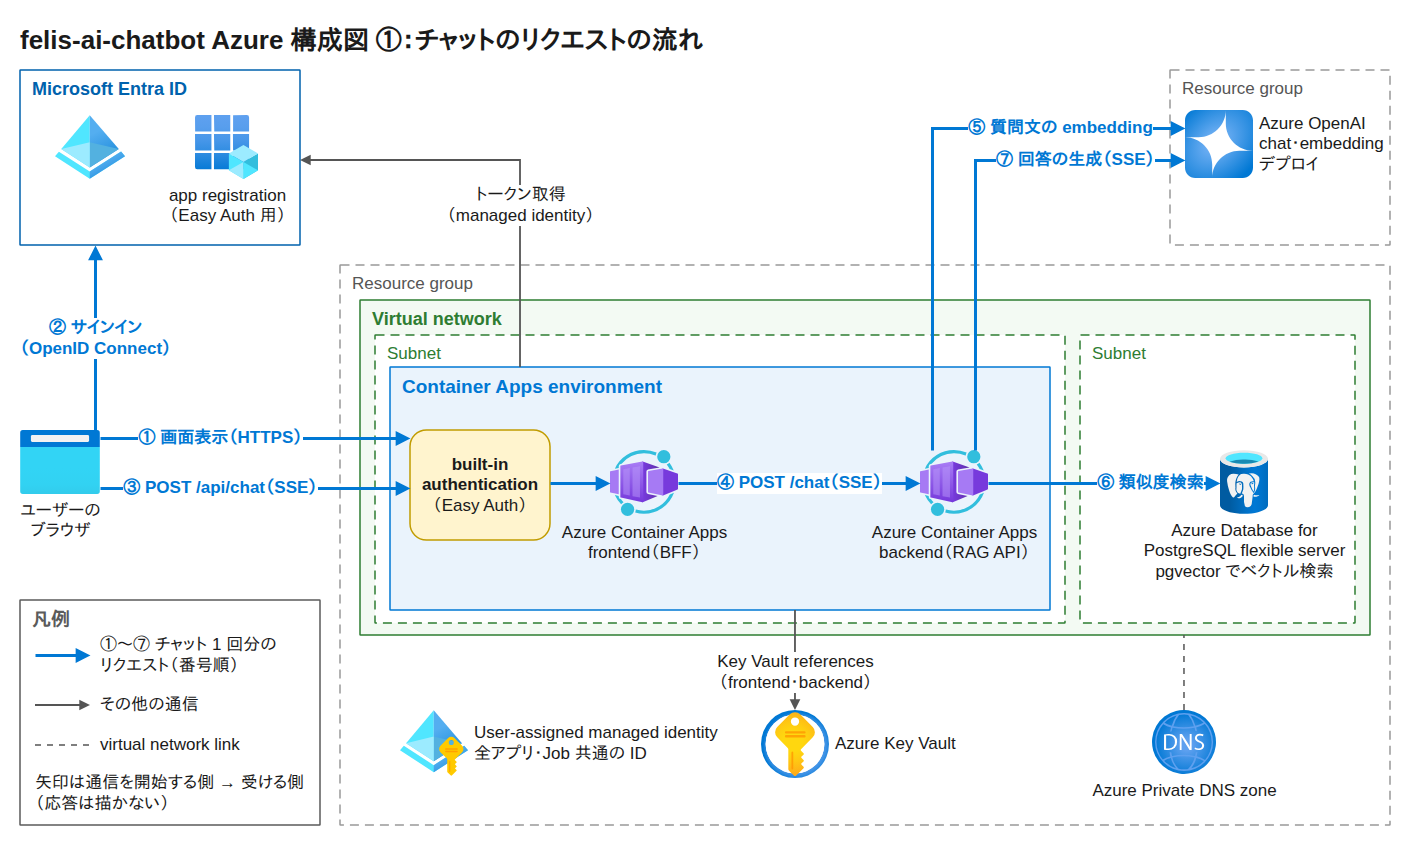
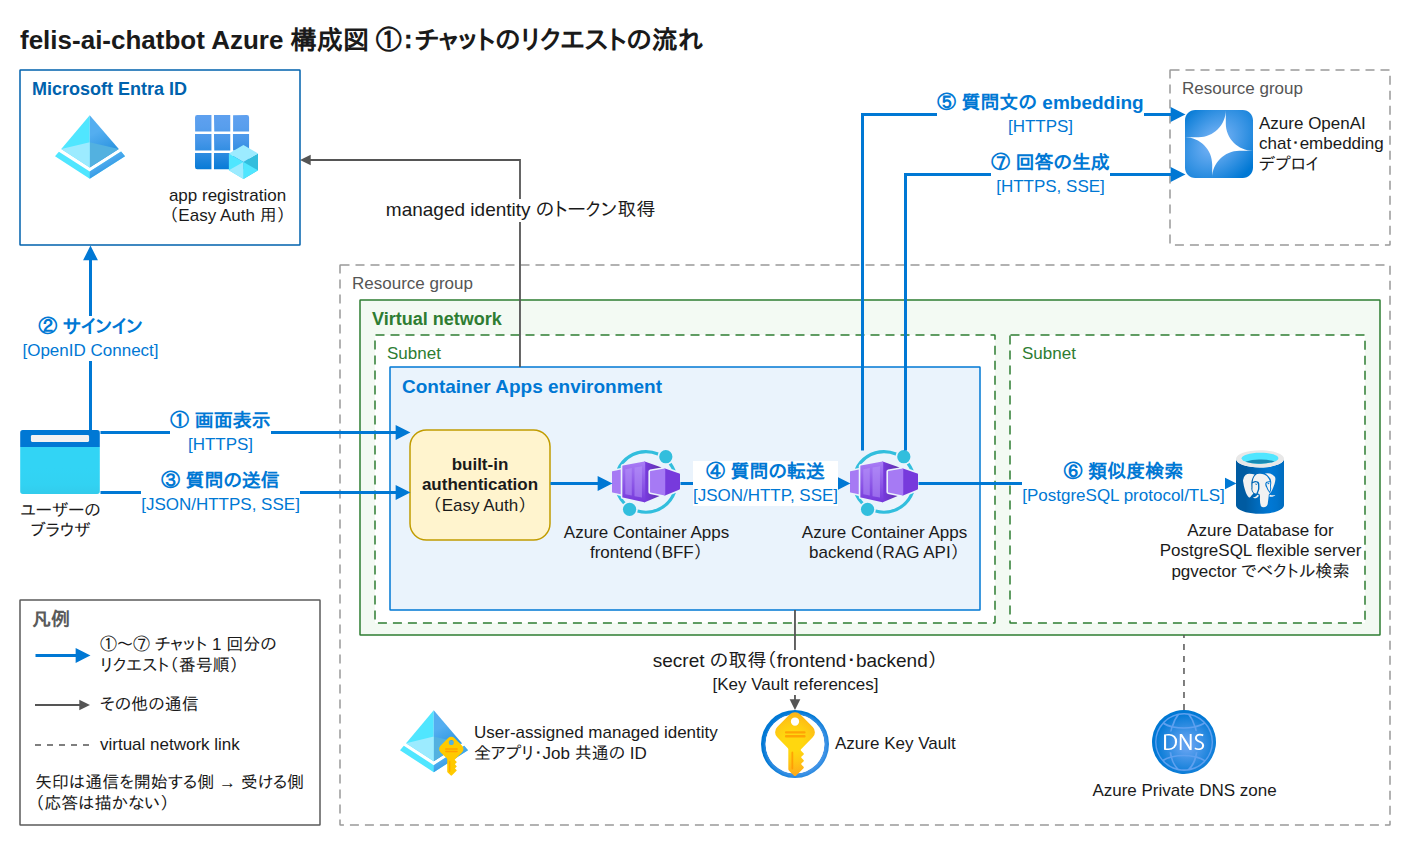
docs: 図 1 の線のラベルを C4 の形（目的と [技術]）にする (#346)
- 各線のラベルを 1 行目に目的、2 行目に小さく [技術] の形にし、パスと HTTP メソッドを外す
- ④ は [JSON/HTTP, SSE]（internal ingress の app 間通信は http）、
  ⑥ は [PostgreSQL protocol/TLS]（sslmode=require）
- README の図 1 の下の説明を、技術欄の SSE の意味と全区間のストリーミングを書いた文に差し替え

Refs #345

Claude-Session: https://claude.ai/code/session_01CPLfa4xjrZJtzQqEqAQjMq

diff --git a/README.md b/README.md
@@ -12,7 +12,7 @@ backend は internal ingress で frontend の BFF 経由でのみ到達可能）
 
 ![図 1: ブラウザから Easy Auth・frontend（BFF）・backend（RAG API）を経て Azure OpenAI と PostgreSQL flexible server に至るチャットのリクエストの流れ](./docs/architecture/architecture-request-flow.png)
 
-図 1 の（SSE）は、回答を Server-Sent Events（SSE）で少しずつ返すことを表します。回答は Azure OpenAI → backend → frontend（BFF）→ ブラウザの全区間をストリーミングで流れます。矢印は要求の向きだけを描いています。
+`SSE` は Server-Sent Events で、回答を少しずつ返します。回答は Azure OpenAI → backend → frontend（BFF）→ ブラウザの全区間をストリーミングで流れます。
 
 図 2: デプロイ・運用・監視・バックアップ
 
